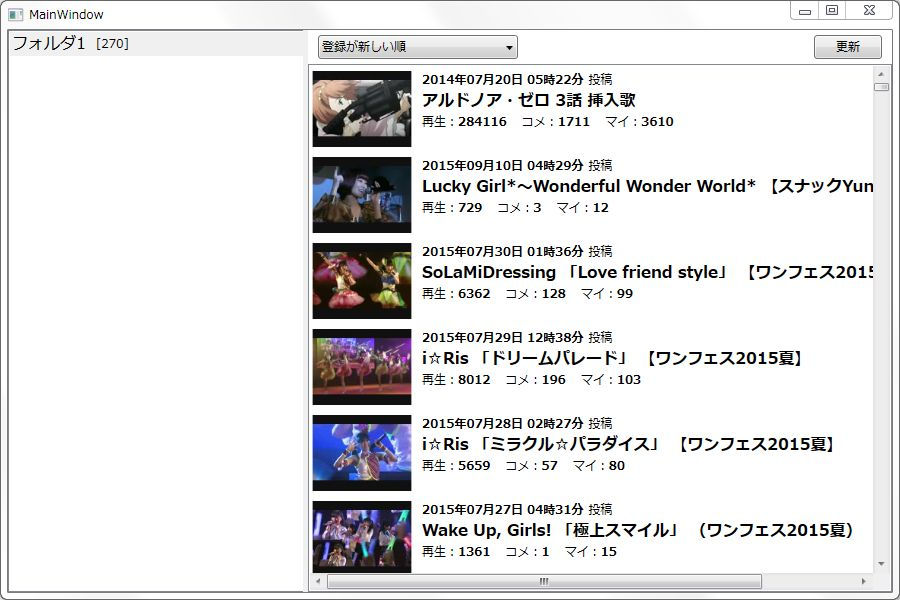
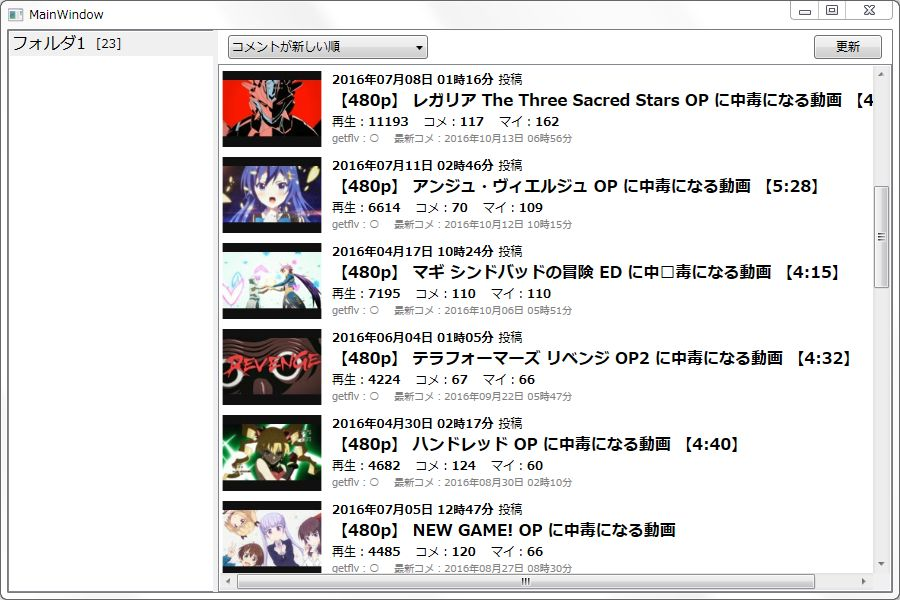
マイリスト一覧のアイテムレイアウトについて、getflv、最新コメント日時を目立たないように変更。

Changed region(s): [[0.2178, 0.03, 0.9956, 0.99], [0.84, 0.96, 0.9022, 0.99], [0.1244, 0.06, 0.1556, 0.09]]

diff --git a/LocalNicoMyList/MainWindow.xaml b/LocalNicoMyList/MainWindow.xaml
@@ -36,10 +36,12 @@
                         <TextBlock Text="{Binding commentNum}" FontSize="12" FontWeight="Bold"/>
                         <TextBlock Text="マイ：" FontSize="12" Margin="15,0,0,0" />
                         <TextBlock Text="{Binding mylistCounter}" FontSize="12" FontWeight="Bold"/>
-                        <TextBlock Text="getflv：" FontSize="12" Margin="15,0,0,0" />
-                        <TextBlock Text="{Binding getflv}" FontSize="12" FontWeight="Bold"/>
-                        <TextBlock Text="最新コメ：" FontSize="12" Margin="15,0,0,0" />
-                        <TextBlock Text="{Binding latestCommentTime, StringFormat=yyyy年MM月dd日\ hh時mm分}" FontSize="12" FontWeight="Bold"/>
+                    </StackPanel>
+                    <StackPanel Orientation="Horizontal">
+                        <TextBlock Text="getflv：" FontSize="10" Foreground="Gray"/>
+                        <TextBlock Text="{Binding getflv}" FontSize="10" Foreground="Gray"/>
+                        <TextBlock Text="最新コメ：" FontSize="10" Foreground="Gray" Margin="15,0,0,0" />
+                        <TextBlock Text="{Binding latestCommentTime, StringFormat=yyyy年MM月dd日\ hh時mm分}" FontSize="10" Foreground="Gray" />
                     </StackPanel>
                 </StackPanel>
             </StackPanel>

diff --git a/README.md b/README.md
@@ -6,11 +6,11 @@
 * 右の一覧に動画のURLをドラッグで選択されているフォルダに追加
 * 右の一覧にマイリストのURLをドラッグでマイリストの動画をまとめて追加。
 * 動画をダブルクリックでブラウザで動画ページを開く。
+* バックグラウンドで最新コメント日時を取得するのに必要な情報を取得する。取得済みの動画についてはgetflvの項目が○になり、その動画については更新ボタンで最新コメント日時が取得されるようになる。
 
 作成途中。
 
 ### TODO
-* 起動時に動画のメッセージサーバーURL、スレッドIDを取得する処理をバックグランドで開始する。
 * フォルダの新規作成、名前変更、削除、並べ替え機能
 * 動画の削除機能
 * 動画一覧のListViewのスクロールがアイテム単位でスクロールすると見づらいのを何とかしたい。ＬｉｓｔＶｉｅwにScrollViewer.CanContentScroll="False"のように指定するとドット単位でスクロールするようになって見やすくはなるが仮想モードが無効になるようでフォルダ切り替えが少し遅くなってしまう。
